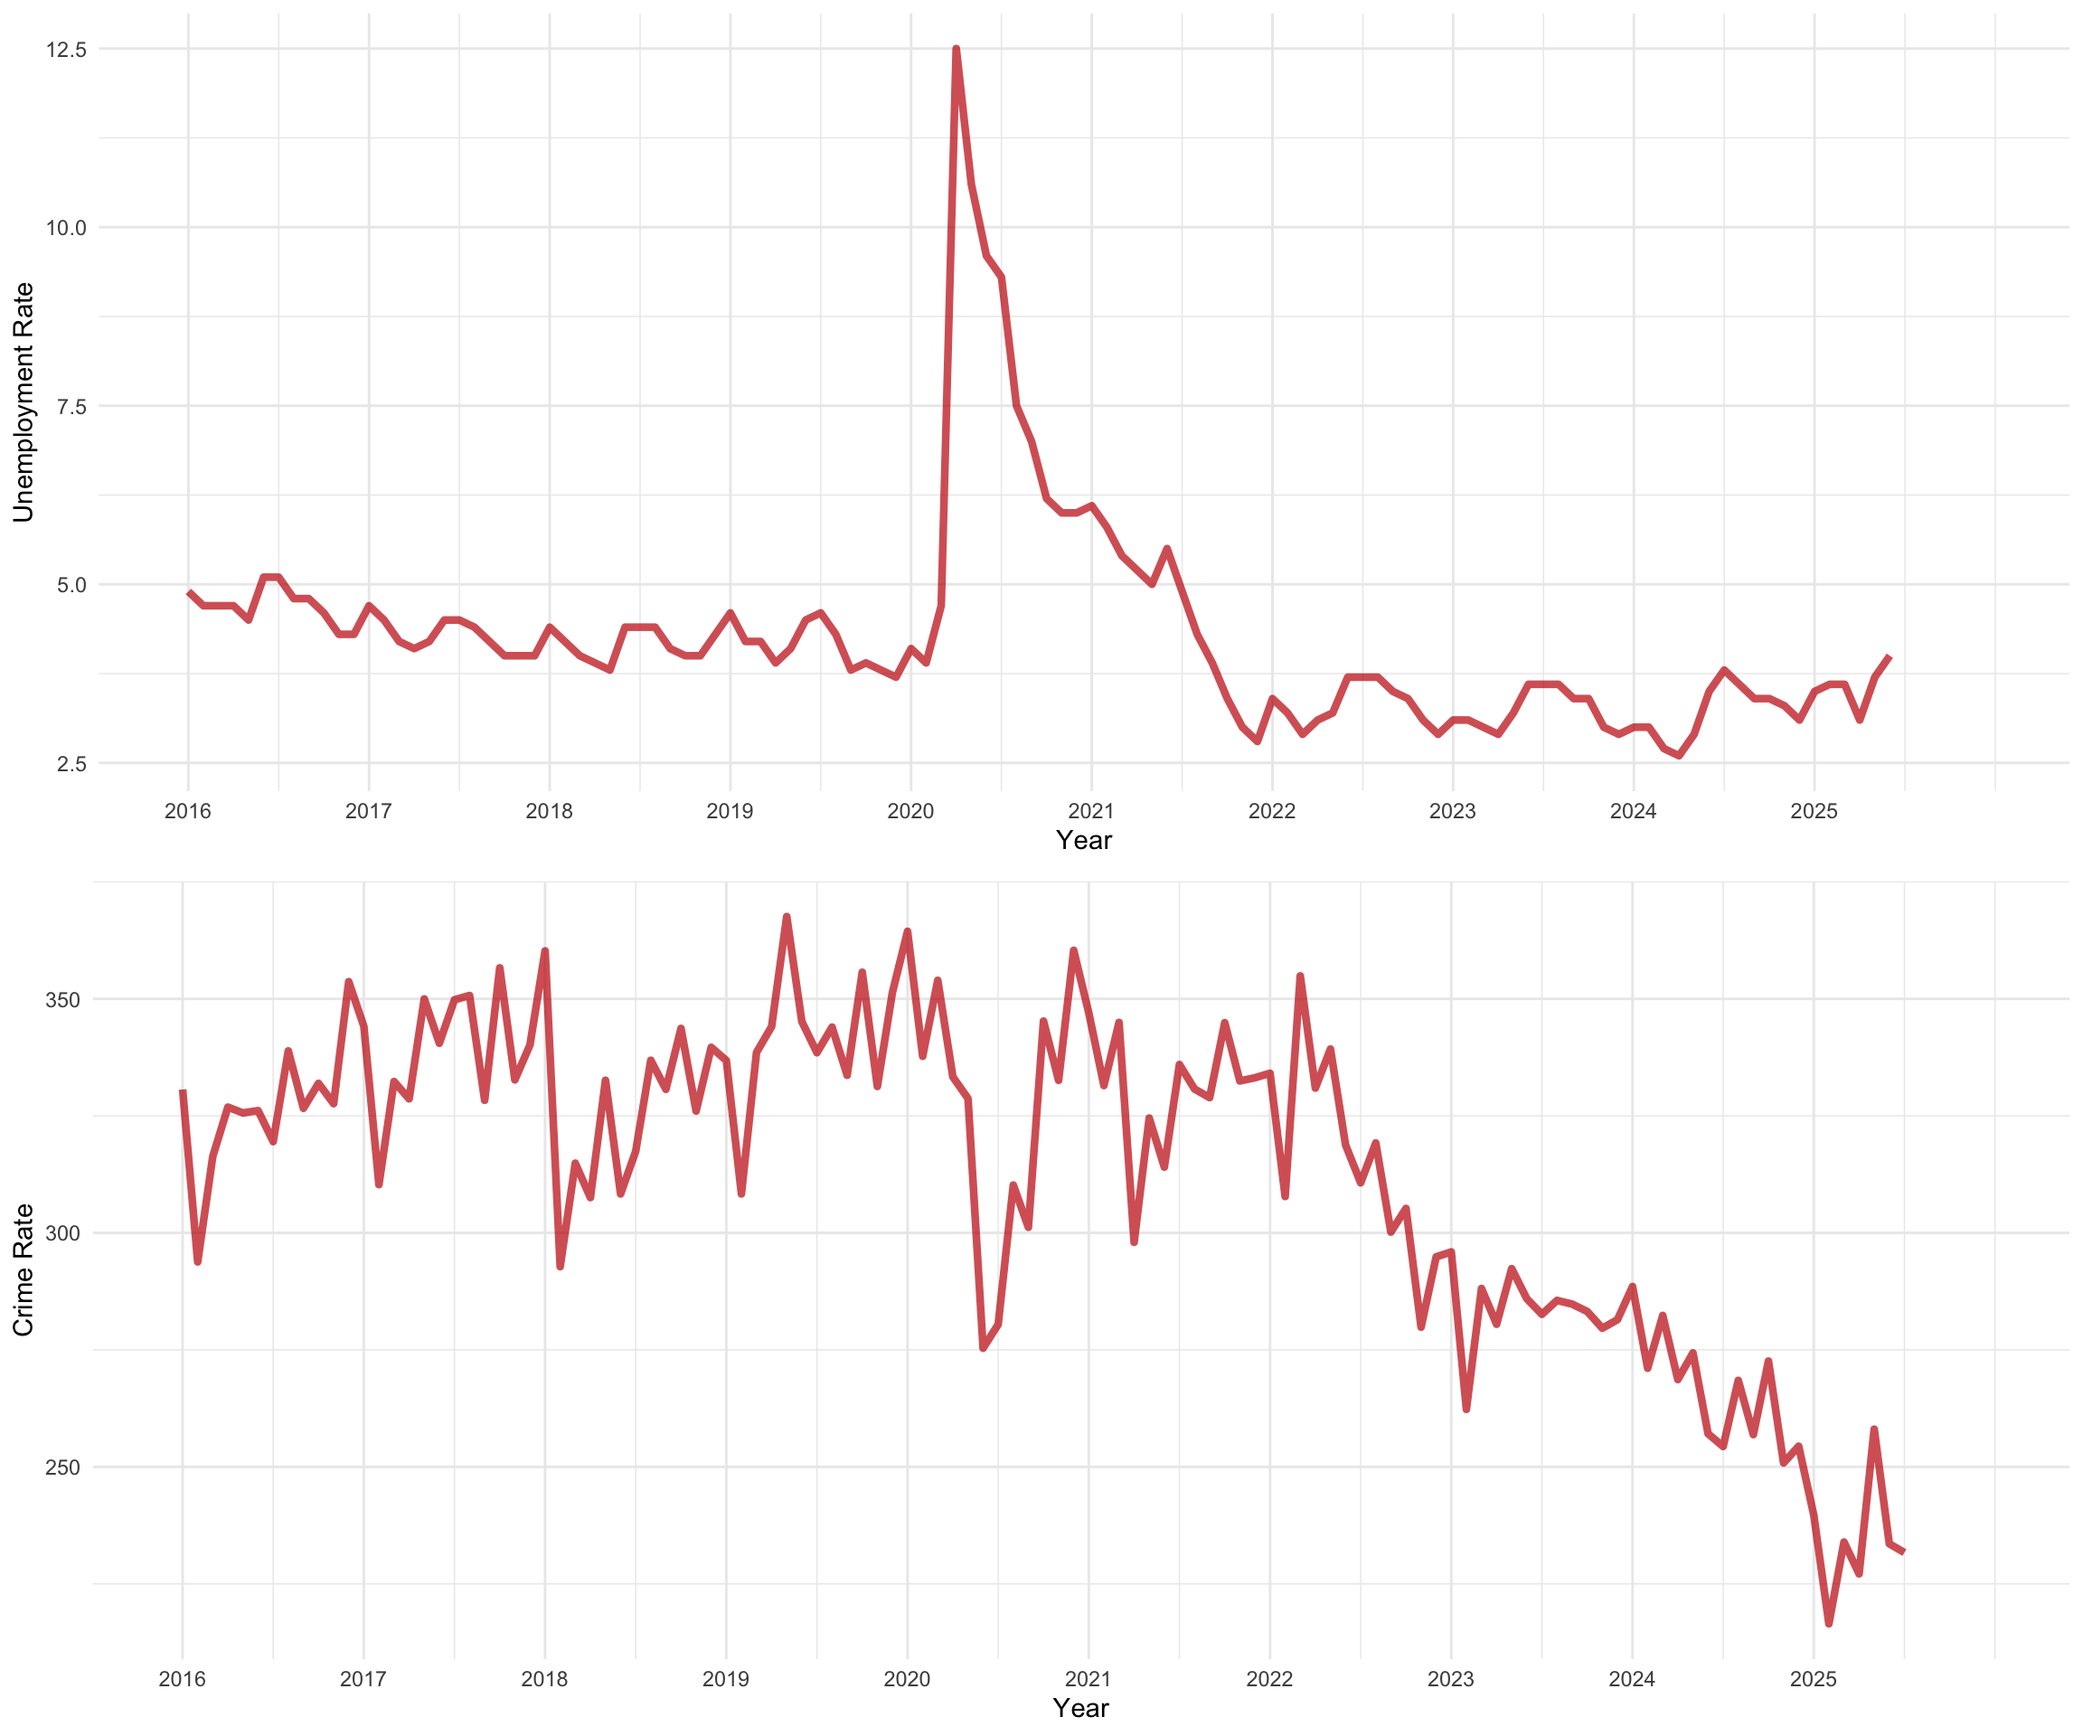
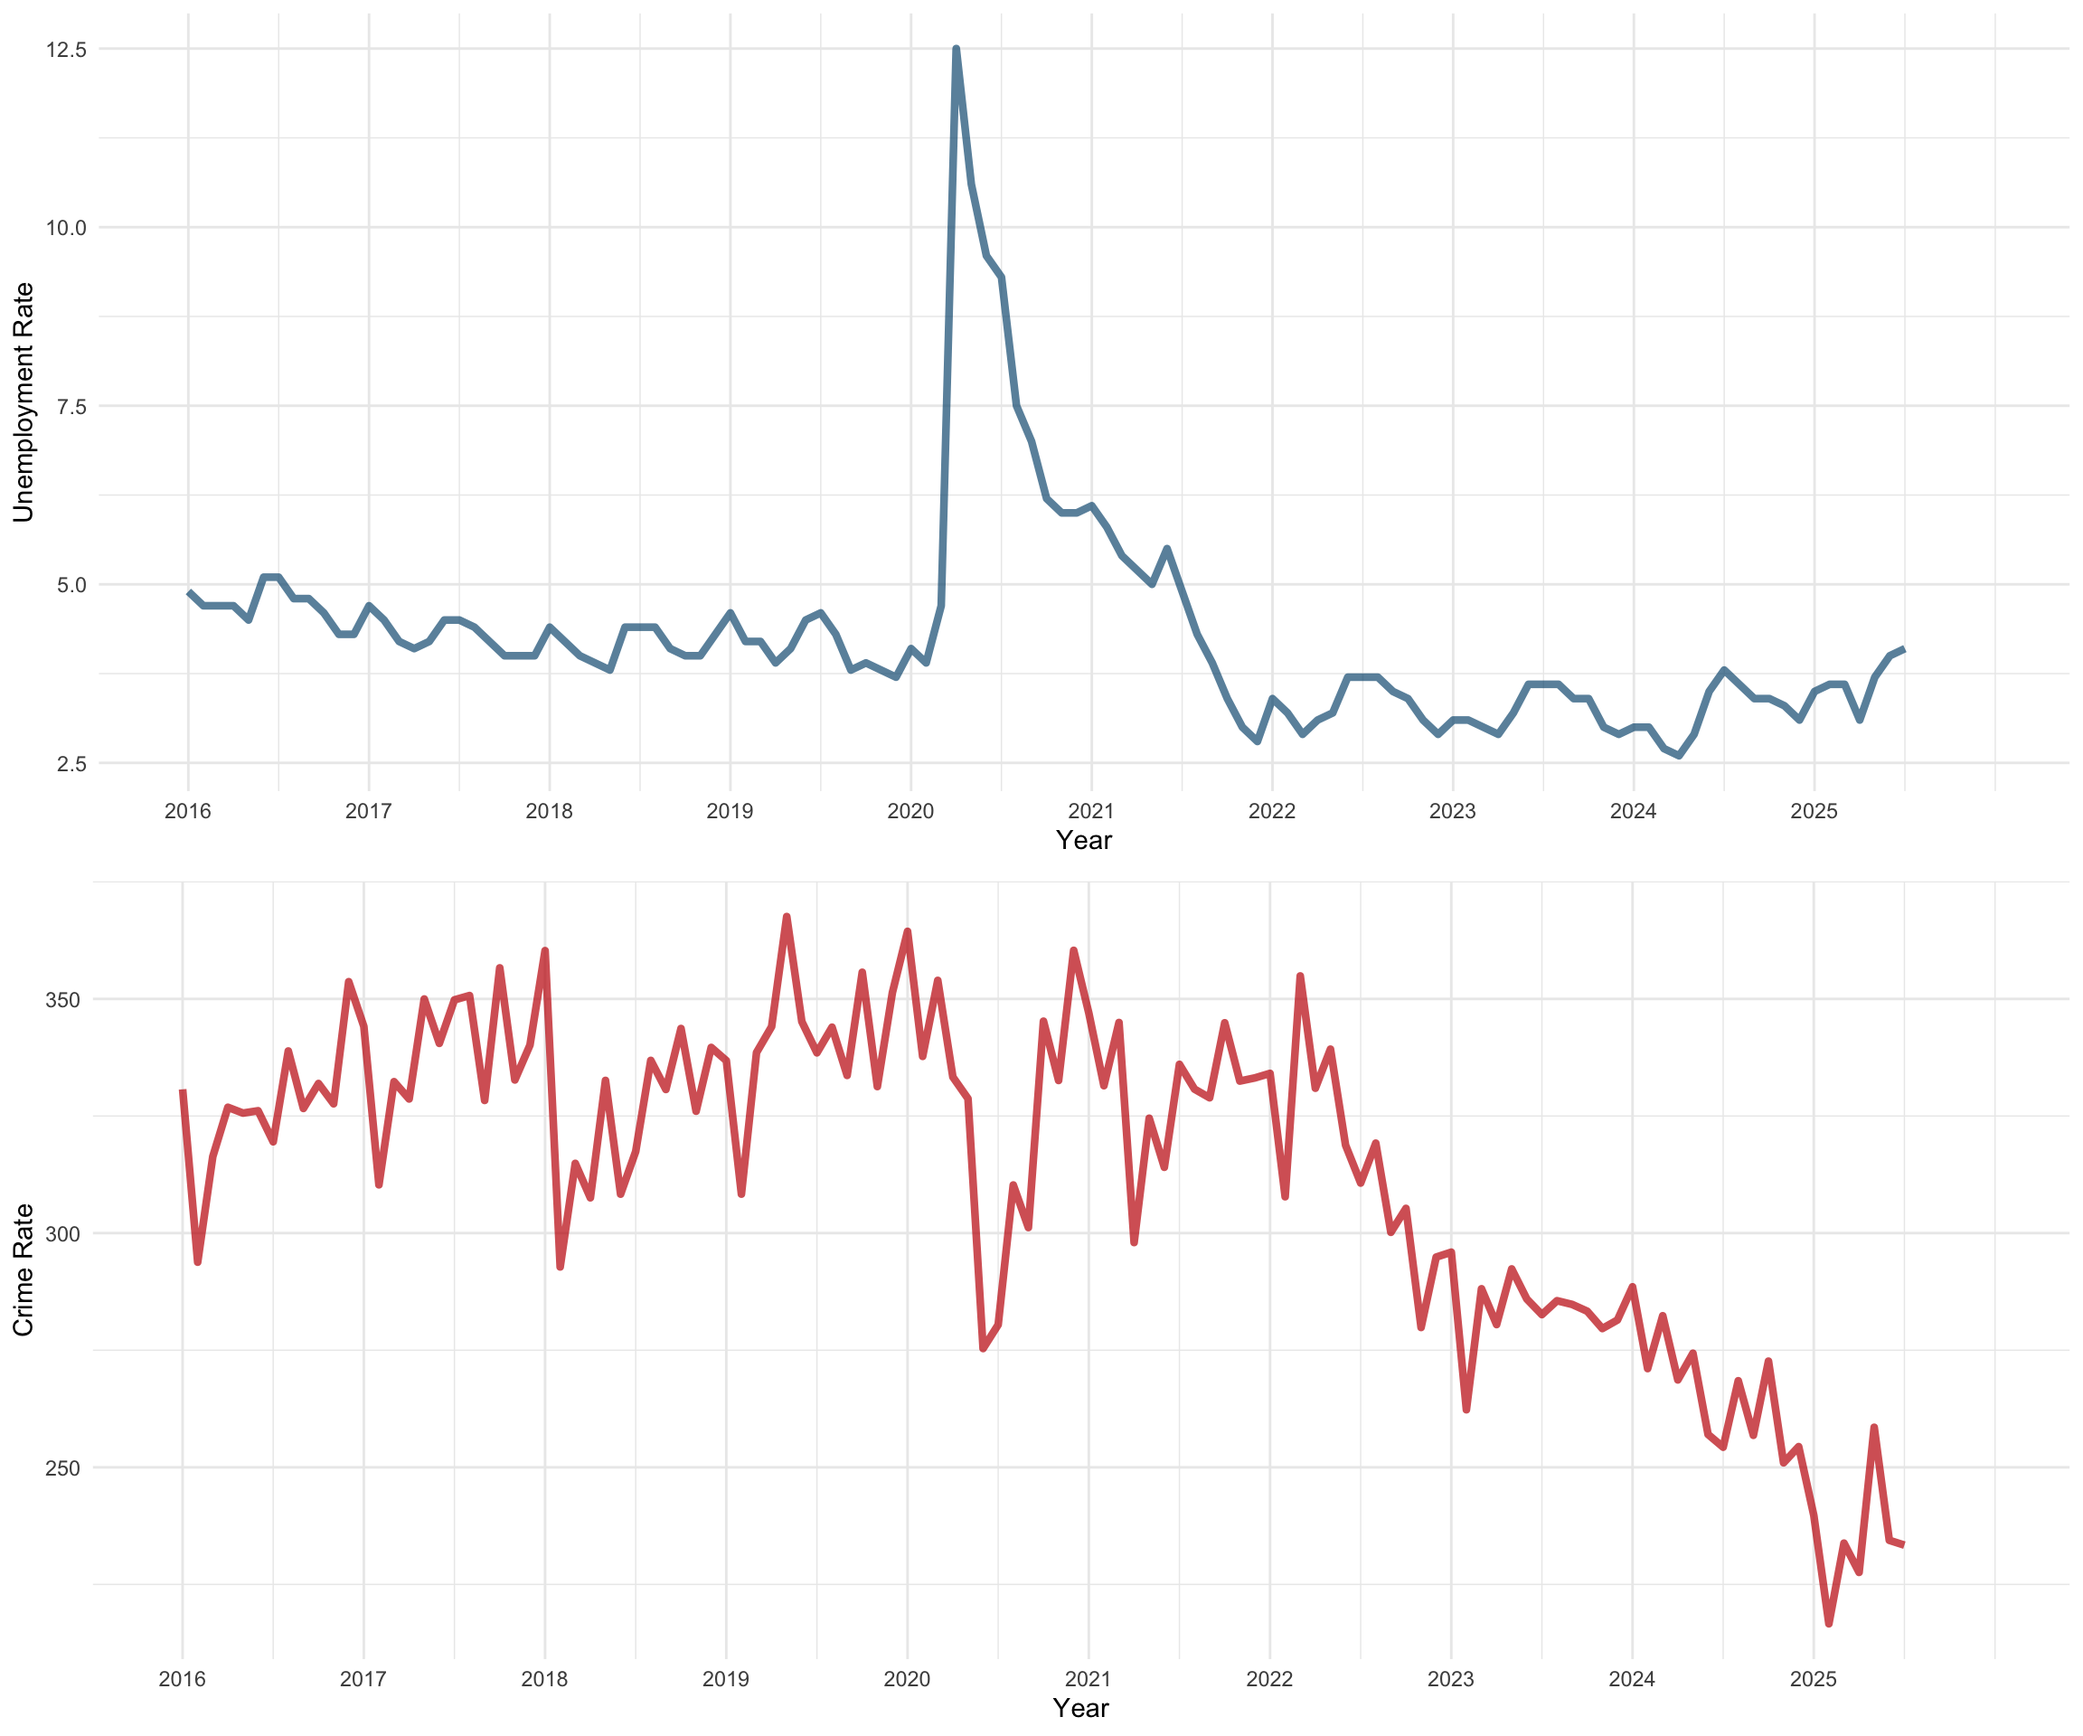
edits to employment file

diff --git a/docs/crime-unemployment.html b/docs/crime-unemployment.html
@@ -279,7 +279,7 @@ $(document).ready(function () {
 
 
 <h1 class="title toc-ignore">Crime and Unemployment</h1>
-<h4 class="date">13 August, 2025</h4>
+<h4 class="date">27 August, 2025</h4>
 
 </div>
 
@@ -304,42 +304,36 @@ for the repository.</p>
 rm( list = ls() )
 
 # load libraries
-library( dplyr )    # used for wrangling the data
-library( tidyr )    # used for wrangling the data
-library( ggplot2 )  # for plotting
-library( cowplot )  # for putting the plots together
-library( scales )   # for formatting the text
-library( forecast ) # for working with time series data
-library( here )     # for referencing the local directory
-library( viridis )  # colors for plots below
+library( dplyr )     # used for wrangling the data
+library( tidyr )     # used for wrangling the data
+library( ggplot2 )   # for plotting
+library( cowplot )   # for putting the plots together
+library( scales )    # for formatting the text
+library( forecast )  # for working with time series data
+library( here )      # for referencing the local directory
+library( viridis )   # colors for plots below
+library( blscrapeR ) # for scraping the bls website
 
 
 # define the objects
-crimeData       &lt;- readRDS( here( &quot;data/crimeData.rds&quot; ) )
-crimesByDay     &lt;- readRDS( here( &quot;data/crimesByDay.rds&quot; ) )
-crimesByMonth   &lt;- readRDS( here( &quot;data/crimesByMonth.rds&quot; ) )
-crimesByYear    &lt;- readRDS( here( &quot;data/crimesByYear.rds&quot; ) )
-crimeRatesMonth &lt;- readRDS( here( &quot;data/crimeRatesMonth.rds&quot; ) )
-crimeRatesYear  &lt;- readRDS( here( &quot;data/crimeRatesYear.rds&quot; ) )
+crime_rates_month &lt;- readRDS( here( &quot;data/crime_rates_month.rds&quot; ) )
 
-crimeRatesMonthType  &lt;- readRDS( here( &quot;data/crimeRatesMonthType.rds&quot; ) )</code></pre>
+crime_rates_month_type  &lt;- readRDS( here( &quot;data/crime_rates_month_type.rds&quot; ) )</code></pre>
 <p><br></p>
 </div>
 <div id="loading-the-unemployment-data" class="section level2">
 <h2>Loading the Unemployment Data</h2>
 <p>First, load the unemployment data. This makes a call to the <a
 href="https://www.bls.gov/">Bureau of Labor Statistics</a> API.</p>
-<pre class="r"><code>library( blscrapeR )
-
-series_id &lt;- &quot;LAUMT043806000000003&quot;
+<pre class="r"><code>series_id &lt;- &quot;LAUMT043806000000003&quot;
 
 unemployment_data &lt;- bls_api( 
   series_id, 
-  startyear = head( names( crimeRatesMonth ), n=1 ), 
-  endyear = tail( names( crimeRatesMonth ), n=1 )
+  startyear = head( names( crime_rates_month ), n=1 ), 
+  endyear = tail( names( crime_rates_month ), n=1 )
   )
 
-UnemployByMonth &lt;- 
+unemploy_by_month &lt;- 
   unemployment_data %&gt;% 
   select( year, periodName, value) %&gt;%
   mutate( month = factor( unemployment_data$periodName,levels = month.name ) ) %&gt;% 
@@ -350,18 +344,18 @@ UnemployByMonth &lt;-
   select( !month )</code></pre>
 <p>Now that the object is constructed, we can plot it.</p>
 <pre class="r"><code># create a time series object for plotting
-monthlyUnemploymentRateByYear &lt;- ts(
-  matrix( as.matrix( UnemployByMonth ), ncol = 1 ), 
+monthly_unemployment_rate_year &lt;- ts(
+  matrix( as.matrix( unemploy_by_month ), ncol = 1 ), 
   start=c( 2016, 1 ), 
-  end=c( as.numeric( tail( names( UnemployByMonth ), n=1 ) ), 12 ), frequency=12
+  end=c( as.numeric( tail( names( unemploy_by_month ), n=1 ) ), 12 ), frequency=12
 )
 
 # plot the rates
-monthlyUnemploymentRateByYear %&gt;%
+monthly_unemployment_rate_year %&gt;%
   ggseasonplot(
     year.labels = TRUE,
     continuous = FALSE,
-    col = viridis( n = dim( UnemployByMonth )[2], option = &quot;cividis&quot; ) ) +
+    col = viridis( n = dim( unemploy_by_month )[2], option = &quot;cividis&quot; ) ) +
   scale_y_continuous( labels = comma ) +
   geom_line( size = 1.5, alpha = 0.7 ) +
   geom_point( size = 2, shape = 21, fill = &quot;white&quot;, color = &quot;black&quot; ) + 
@@ -372,26 +366,26 @@ monthlyUnemploymentRateByYear %&gt;%
 <p><img src="crime-unemployment_files/figure-html/unnamed-chunk-3-1.png" width="1152" /></p>
 <p>Now, we can plot unemployment with crime.</p>
 <pre class="r"><code># create a time series object for plotting
-monthlyCrimeRateByYear &lt;- ts(
-  matrix( as.matrix( crimeRatesMonth ), ncol = 1 ), 
+monthly_crime_rate_year &lt;- ts(
+  matrix( as.matrix( crime_rates_month ), ncol = 1 ), 
   start=c( 2016, 1 ), 
-  end=c( as.numeric( tail( names( crimeRatesMonth ), n=1 ) ), 12 ), frequency=12
+  end=c( as.numeric( tail( names( crime_rates_month ), n=1 ) ), 12 ), frequency=12
 )
 
-# drop 2025 from the monthlyCrimeRateByYear object as the 
+# drop 2025 from the monthly_crime_rate_year object as the 
 # unemployment data are not yet available
 
-#monthlyCrimeRateByYear &lt;- window( 
-#  monthlyCrimeRateByYear, 
+#monthly_crime_rate_year &lt;- window( 
+#  monthly_crime_rate_year, 
 #  start = c( 2016, 1 ), 
 #  end = c( 2024, 12 ) )
 
 # render the plot
-crime_seasonplot &lt;- monthlyCrimeRateByYear %&gt;%
+crime_seasonplot &lt;- monthly_crime_rate_year %&gt;%
   ggseasonplot(
     year.labels = TRUE,
     continuous = FALSE,
-    col = viridis( n = dim( crimeRatesMonth )[2], option = &quot;viridis&quot; ) ) +
+    col = viridis( n = dim( crime_rates_month )[2], option = &quot;viridis&quot; ) ) +
   scale_y_continuous( labels = comma ) +
   geom_line( size = 1.5, alpha = 0.7 ) +
   geom_point( size = 2, shape = 21, fill = &quot;white&quot;, color = &quot;black&quot; ) + 
@@ -400,11 +394,11 @@ crime_seasonplot &lt;- monthlyCrimeRateByYear %&gt;%
     subtitle = &quot;Phoenix, AZ&quot; ) +
   theme_minimal()
 
-unemployment_seasonplot &lt;- monthlyUnemploymentRateByYear %&gt;%
+unemployment_seasonplot &lt;- monthly_unemployment_rate_year %&gt;%
   ggseasonplot(
     year.labels = TRUE,
     continuous = FALSE,
-    col = viridis( n = dim( UnemployByMonth )[2], option = &quot;cividis&quot; ) ) +
+    col = viridis( n = dim( unemploy_by_month )[2], option = &quot;cividis&quot; ) ) +
   scale_y_continuous( labels = comma ) +
   geom_line( size = 1.5, alpha = 0.7 ) +
   geom_point( size = 2, shape = 21, fill = &quot;white&quot;, color = &quot;black&quot; ) + 
@@ -419,24 +413,24 @@ print( combined_plot )</code></pre>
 <p><br></p>
 <p>We can rework these to show the trends over time (rather than having
 time stacked).</p>
-<pre class="r"><code>actual_data &lt;- data.frame(
-    dsCrime = time( monthlyCrimeRateByYear ),
-    yCrime = as.numeric( monthlyCrimeRateByYear ),
-    dsUnemp = time( monthlyUnemploymentRateByYear ),
-    yUnemp = as.numeric( monthlyUnemploymentRateByYear )
+<pre class="r"><code>actual_dat &lt;- data.frame(
+    dsCrime = time( monthly_crime_rate_year ),
+    yCrime = as.numeric( monthly_crime_rate_year ),
+    dsUnemp = time( monthly_unemployment_rate_year ),
+    yUnemp = as.numeric( monthly_unemployment_rate_year )
 )
 
 unemp_plot &lt;- 
-  ggplot( data = actual_data, aes( x = dsUnemp, y = yUnemp ) ) +
-  geom_line( color = &quot;#c41104&quot;, size = 1.5, alpha = 0.7 ) +
-  scale_x_continuous( breaks = seq( min( actual_data$dsUnemp) , max( actual_data$dsUnemp ), by = 1 ) ) +
+  ggplot( data = actual_dat, aes( x = dsUnemp, y = yUnemp ) ) +
+  geom_line( color = &quot;#105a82&quot;, size = 1.5, alpha = 0.7 ) +
+  scale_x_continuous( breaks = seq( min( actual_dat$dsUnemp) , max( actual_dat$dsUnemp ), by = 1 ) ) +
   labs( x = &quot;Year&quot;, y = &quot;Unemployment Rate&quot;, color = &quot;Unemployment Rate&quot; ) +
   theme_minimal()
 
 crime_plot &lt;- 
-  ggplot( data = actual_data, aes( x = dsCrime, y = yCrime ) ) +
+  ggplot( data = actual_dat, aes( x = dsCrime, y = yCrime ) ) +
   geom_line( color = &quot;#c41104&quot;, size = 1.5, alpha = 0.7 ) +
-  scale_x_continuous( breaks = seq( min( actual_data$dsCrime) , max( actual_data$dsCrime ), by = 1 ) ) +
+  scale_x_continuous( breaks = seq( min( actual_dat$dsCrime) , max( actual_dat$dsCrime ), by = 1 ) ) +
   labs( x = &quot;Year&quot;, y = &quot;Crime Rate&quot;, color = &quot;Crime Rate&quot; ) +
   theme_minimal()
 
@@ -445,7 +439,7 @@ print( combined_plot )</code></pre>
 <p><img src="crime-unemployment_files/figure-html/unnamed-chunk-5-1.png" width="1152" /></p>
 <p><br></p>
 <p>Now we can examine the correlation between the two, which is
-<strong>0.227</strong>.</p>
+<strong>0.224</strong>.</p>
 <p><br><br></p>
 </div>
 <div id="adjusting-for-2020" class="section level2">
@@ -457,23 +451,23 @@ relationship.</p>
 simply make it missing so that it does not mess up the x-axis labels on
 our plot.</p>
 <pre class="r"><code># filter the data to make 2020 NA.
-actual_data_with_gap &lt;- actual_data %&gt;%
+actual_dat_with_gap &lt;- actual_dat %&gt;%
   mutate(
-    yUnemp = ifelse(as.integer(dsUnemp) == 2020, NA, yUnemp),
-    yCrime = ifelse(as.integer(dsCrime) == 2020, NA, yCrime)
+    yUnemp = ifelse( as.integer( dsUnemp ) == 2020, NA, yUnemp ),
+    yCrime = ifelse( as.integer( dsCrime ) == 2020, NA, yCrime )
   )
 
 unemp_plot &lt;- 
-  ggplot( data = actual_data_with_gap, aes( x = dsUnemp, y = yUnemp ) ) +
-  geom_line( color = &quot;#c41104&quot;, size = 1.5, alpha = 0.7 ) +
-  scale_x_continuous( breaks = seq( min( actual_data$dsUnemp) , max( actual_data$dsUnemp ), by = 1 ) ) +
+  ggplot( data = actual_dat_with_gap, aes( x = dsUnemp, y = yUnemp ) ) +
+  geom_line( color = &quot;#105a82&quot;, size = 1.5, alpha = 0.7 ) +
+  scale_x_continuous( breaks = seq( min( actual_dat$dsUnemp ) , max( actual_dat$dsUnemp ), by = 1 ) ) +
   labs( x = &quot;Year&quot;, y = &quot;Unemployment Rate&quot;, color = &quot;Unemployment Rate&quot; ) +
   theme_minimal()
 
 crime_plot &lt;- 
-  ggplot( data = actual_data_with_gap, aes( x = dsCrime, y = yCrime ) ) +
+  ggplot( data = actual_dat_with_gap, aes( x = dsCrime, y = yCrime ) ) +
   geom_line( color = &quot;#c41104&quot;, size = 1.5, alpha = 0.7 ) +
-  scale_x_continuous( breaks = seq( min( actual_data$dsCrime) , max( actual_data$dsCrime ), by = 1 ) ) +
+  scale_x_continuous( breaks = seq( min( actual_dat$dsCrime ) , max( actual_dat$dsCrime ), by = 1 ) ) +
   labs( x = &quot;Year&quot;, y = &quot;Crime Rate&quot;, color = &quot;Crime Rate&quot; ) +
   theme_minimal()
 
@@ -482,7 +476,7 @@ print( combined_plot )</code></pre>
 <p><img src="crime-unemployment_files/figure-html/unnamed-chunk-6-1.png" width="1152" /></p>
 <p><br></p>
 <p>Now we can examine the correlation between the two, which is
-<strong>0.483</strong>. That looks more appropriate. Or, it shows how
+<strong>0.466</strong>. That looks more appropriate. Or, it shows how
 sensitive the interpretation is to the inclusion of the data from
 2020.</p>
 <p><br><br></p>
@@ -496,7 +490,7 @@ Might the relationship vary?</p>
 <p>First, we need to rework the unemployment data to merge it with the
 monthly crime data.</p>
 <pre class="r"><code># convert unemployment matrix to a data frame
-unemploy_long &lt;- as.data.frame( as.table( as.matrix( UnemployByMonth ) ) )
+unemploy_long &lt;- as.data.frame( as.table( as.matrix( unemploy_by_month ) ) )
 
 # rename the columns for clarity
 colnames( unemploy_long ) &lt;- c( &quot;month&quot;, &quot;year&quot;, &quot;u_rate&quot; )
@@ -508,16 +502,16 @@ unemploy_long$month &lt;- month.abb[unemploy_long$month]
 unemploy_long$year &lt;- as.character( unemploy_long$year )
 #unemploy_long$year &lt;- as.numeric( as.character( unemploy_long$year ) )</code></pre>
 <p>Now, we can merge these data to the monthly crime type data.</p>
-<pre class="r"><code>crimeRatesMonthTypeUnemp &lt;- crimeRatesMonthType %&gt;%
+<pre class="r"><code>crime_rates_month_type_unemp &lt;- crime_rates_month_type %&gt;%
   left_join( unemploy_long, by = c( &quot;year&quot;, &quot;month&quot; ) )</code></pre>
 <p>Now we can plot it.</p>
-<pre class="r"><code>crimeRatesMonthTypeUnemp %&gt;% 
+<pre class="r"><code>crime_rates_month_type_unemp %&gt;% 
   ggplot( aes( month, rates, group = 1 ) ) +
   geom_line( color = &quot;grey40&quot; ) +
   geom_point( alpha = 2/5, color = &quot;#751913&quot; ) +
   geom_line( aes( y = u_rate ), color = &quot;#105a82&quot; ) +
   geom_point( aes( y = u_rate ), alpha = 2/5, color = &quot;#105a82&quot; ) +
-  facet_grid( crime.type ~ year, scales=&quot;free&quot; ) +
+  facet_grid( crime_type ~ year, scales=&quot;free&quot; ) +
   theme( axis.text.x=element_blank(), 
          strip.text.x = element_text( size = 15 ),
          strip.text.y = element_text( size = 12 ) ) +
@@ -539,8 +533,8 @@ Criminology Phoenix page</a>
 href="https://github.com/jacobtnyoung/OpenCrimPhx/issues/new">Issues</a>
 page. Thanks!</p>
 <p><br><br></p>
-<div id="last-updated-13-august-2025" class="section level6">
-<h6><strong><em>Last updated 13 August, 2025</em></strong></h6>
+<div id="last-updated-27-august-2025" class="section level6">
+<h6><strong><em>Last updated 27 August, 2025</em></strong></h6>
 </div>
 </div>
 
